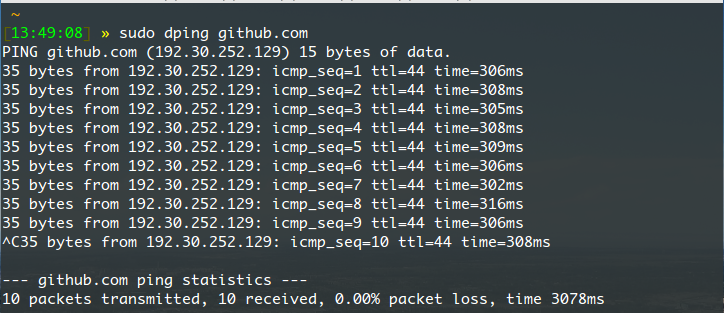
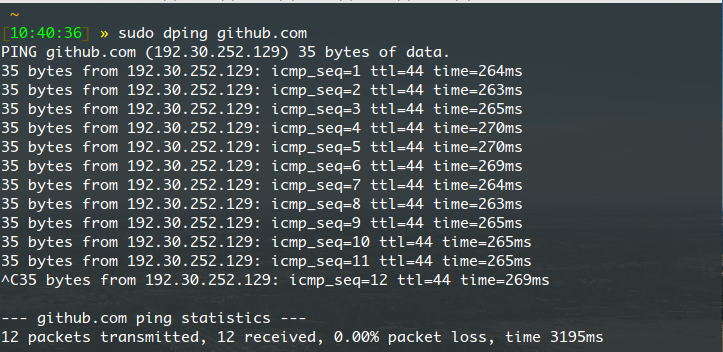
ip header...

Changed region(s): [[0.0, 0.0, 1.0, 0.8339], [0.0, 0.8626, 0.852, 0.9776]]

diff --git a/dping/ping.py b/dping/ping.py
@@ -55,7 +55,8 @@ class Ping(object):
                              self._pid)
 
     def start(self, timeout=3):
-        size = self._buffer_size
+        # ICMP packet + IP header
+        size = self._buffer_size + 20
         addr = socket.gethostbyname(self._addr)
         print('PING {0} ({1}) {2} bytes of data.'.format(self._addr, addr, size))
 
